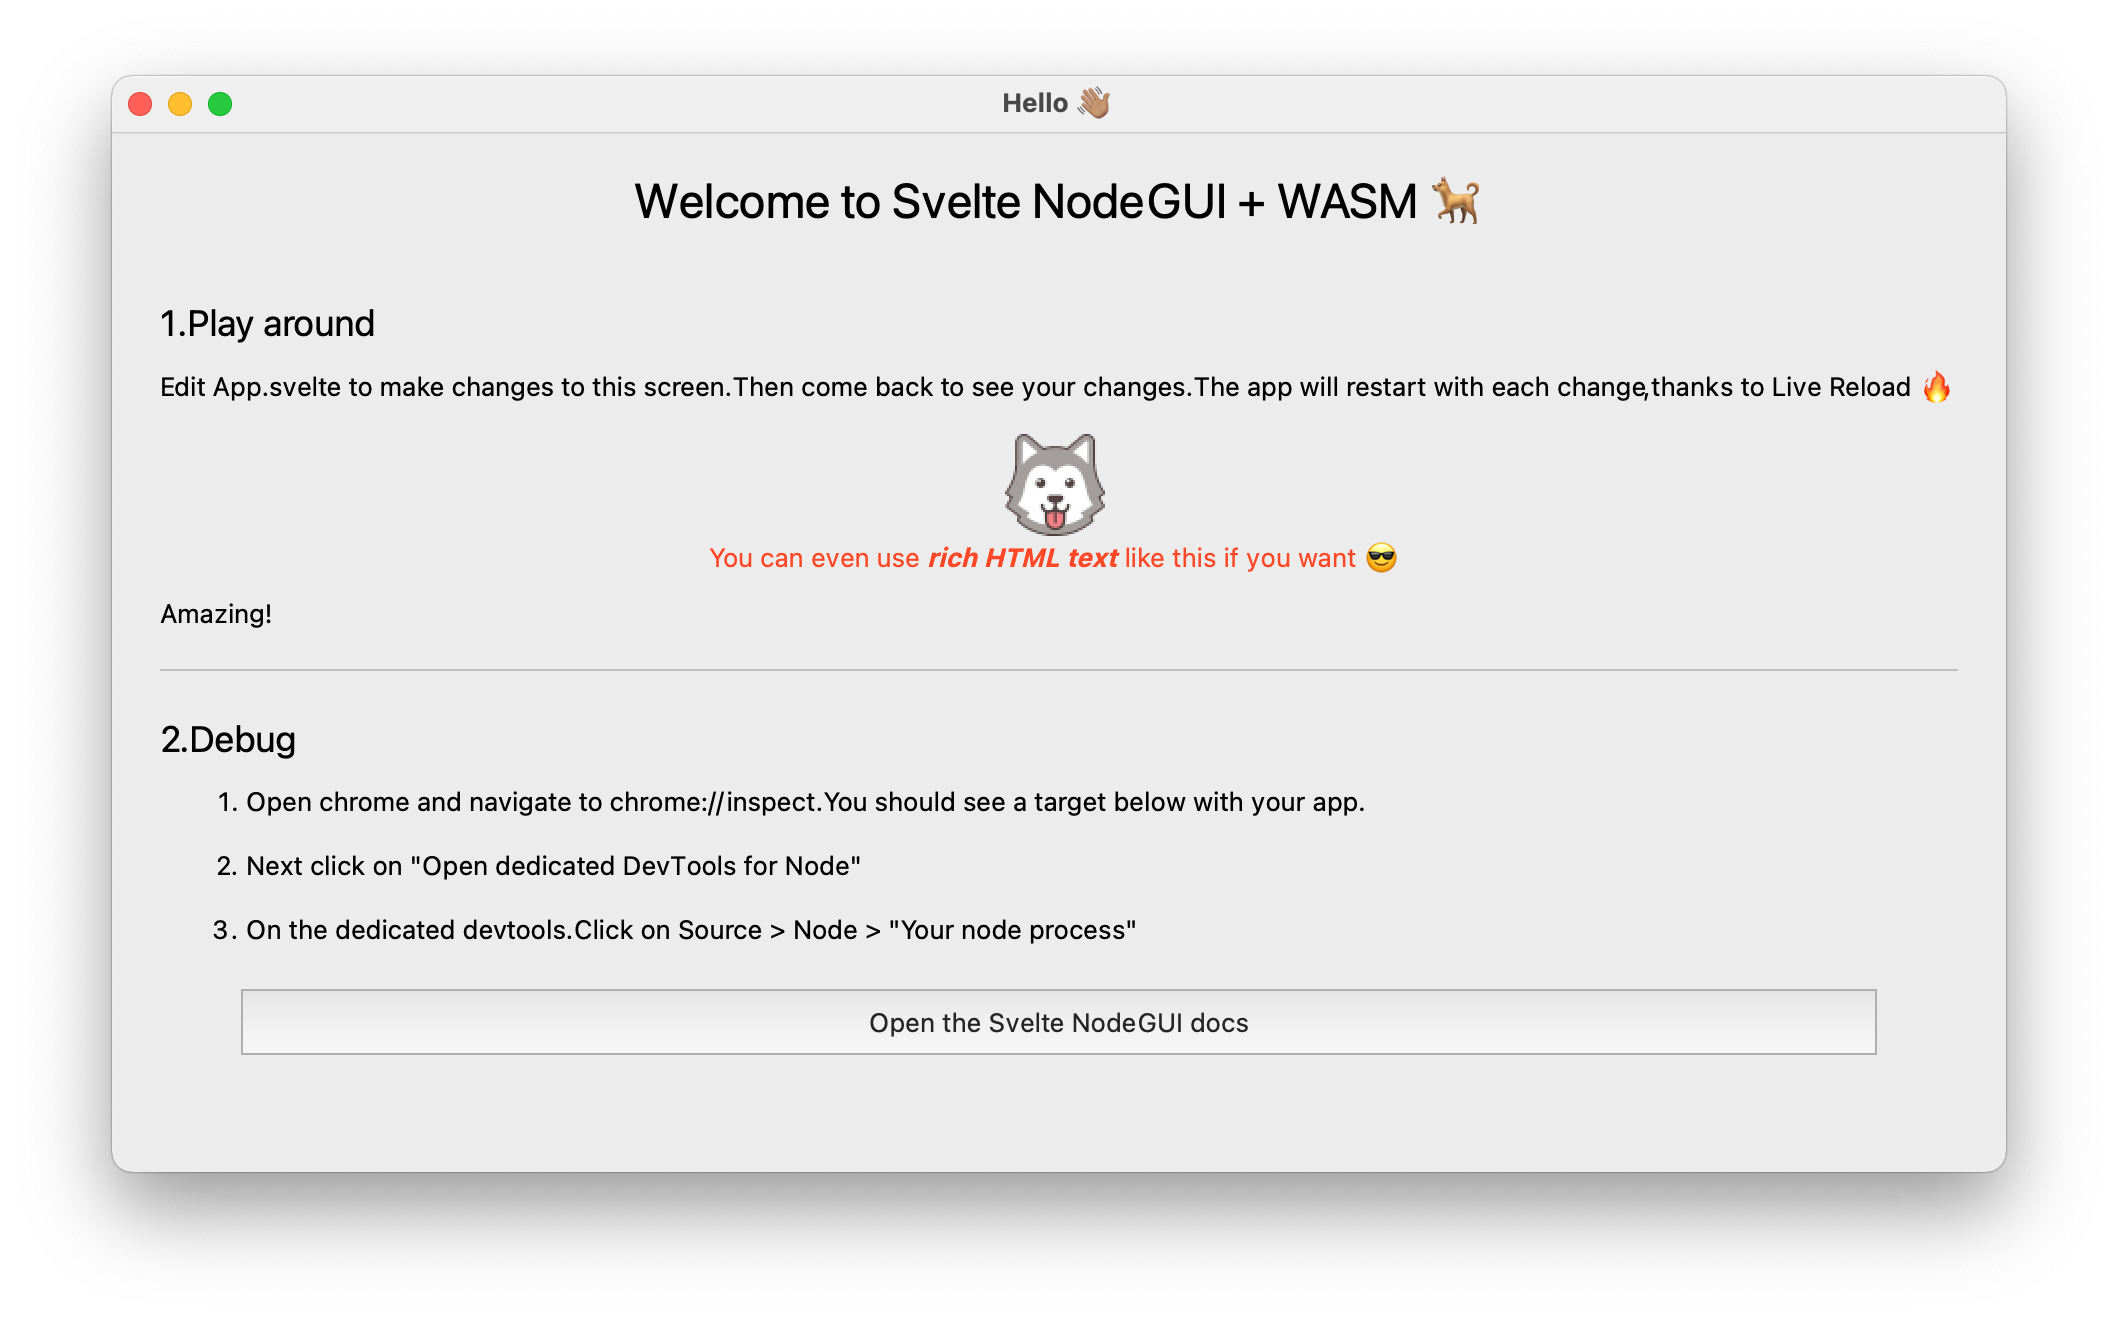
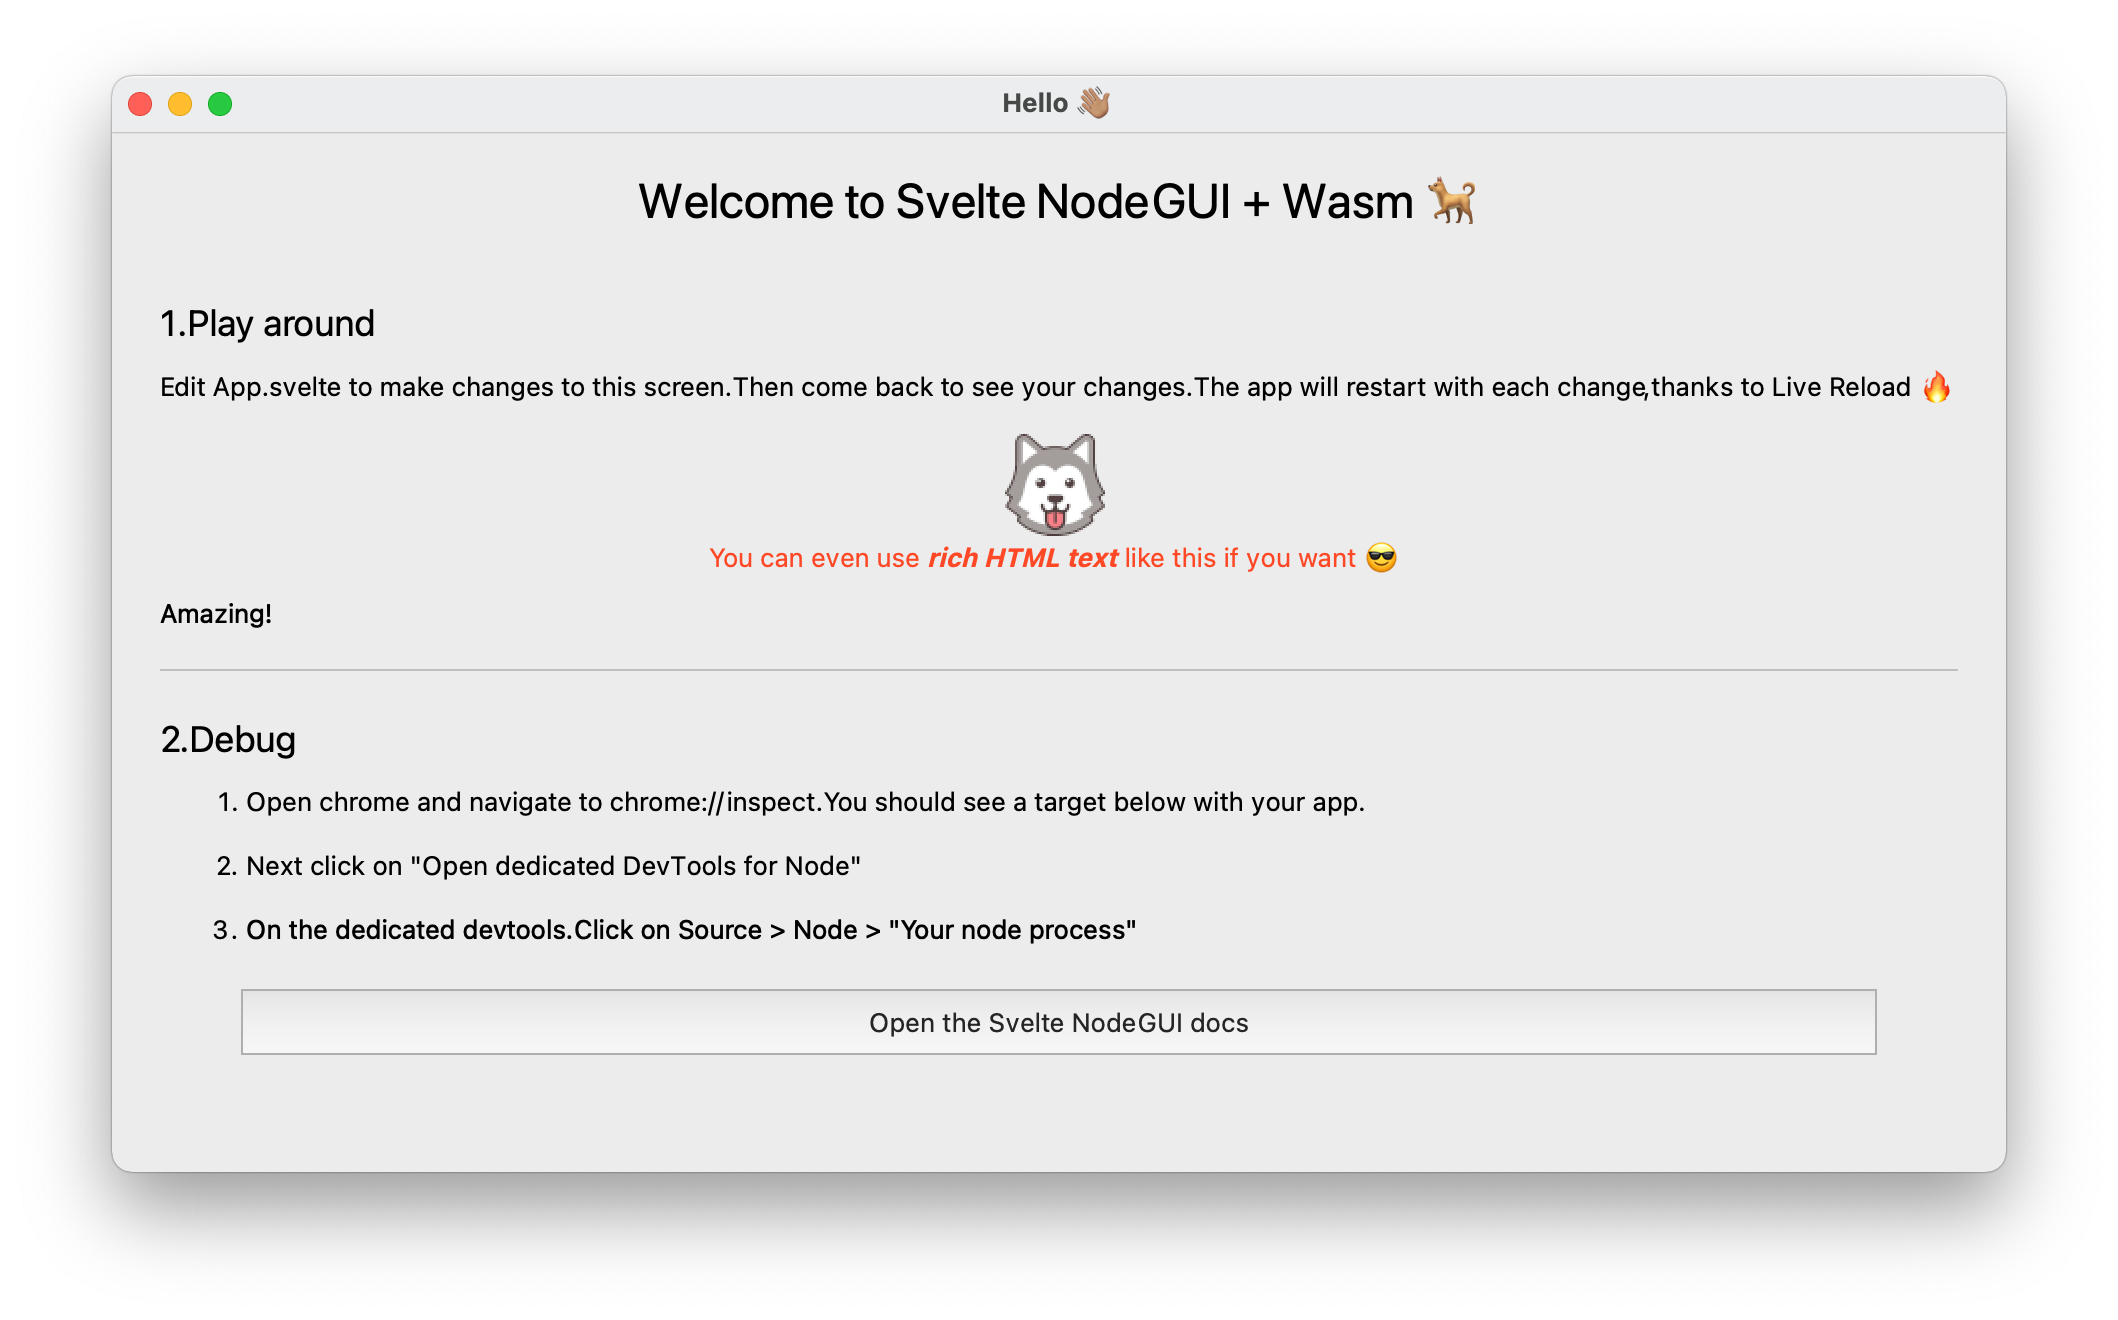
fix typos and add to readme

Changed region(s): [[0.2805, 0.1242, 0.7167, 0.1864], [0.2805, 0.6833, 0.3116, 0.7144], [0.2181, 0.6833, 0.2493, 0.7144]]

diff --git a/src/App.svelte b/src/App.svelte
@@ -7,7 +7,7 @@
     import type { NSVElement, RNWindow } from "@nodegui/svelte-nodegui";
     import * as wasm from '../crate/pkg'
 
-    let hi = wasm.greet("Svelte NodeGUI + WASM");
+    let hi = wasm.greet("Svelte NodeGUI + Wasm");
 
     const winIcon = new QIcon(nodeguiIcon);
 

diff --git a/README.md b/README.md
@@ -1,6 +1,6 @@
 # svelte-nodegui-wasm-starter
 
-**Clone and run for a quick way to see Svelte NodeGui + WASM in action.**
+**Clone and run for a quick way to see Svelte NodeGui + Wasm in action.**
 
 This is a fork of the [svelte-nodegui-starter](https://github.com/nodegui/svelte-nodegui-starter) repo with the addition of using WASM with Rust.  Note, this currently breaks hot reloading.
 
@@ -17,8 +17,8 @@ Additionally, you'll need to have [Rust](https://www.rust-lang.org/) and [wasm-p
 From your command line:
 
 ```bash
-# Clone this repository
-git clone https://github.com/bradyjoslin/svelte-nodegui-wasm-starter/
+# Create a copy of this repository (or just clone)
+npx degit https://github.com/bradyjoslin/svelte-nodegui-wasm-starter/
 # Go into the project's crate directory
 cd svelte-nodegui-wasm-starter/crate
 wasm-pack build
@@ -30,6 +30,39 @@ npm install
 npm run dev
 # (From another terminal) Run the built app
 npm run start
+```
+
+## Wasm Interaction
+
+A greet function is exposed in `crate/src/lib.rs`, which takes a string as an argument:
+
+```rust
+#[wasm_bindgen]
+pub fn greet(name: &str) -> String {
+    format!("Welcome to {} 🐕", name)
+}
+```
+
+The Wasm package is imported, the greet function is called, and the result is rendered to the screen in `src/App.svelte`
+
+```js
+// ...
+
+import * as wasm from '../crate/pkg'
+
+let hi = wasm.greet("Svelte NodeGUI + WASM");
+
+// ...
+
+    <view style="flex: 1;">
+        <text id="welcome-text">{hi}</text>
+        <text id="step-1">1. Play around</text>
+        <StepOne />
+        <text id="step-2">2. Debug</text>
+        <StepTwo />
+    </view>
+
+// ...
 ```
 
 ## Resources for Learning NodeGui
